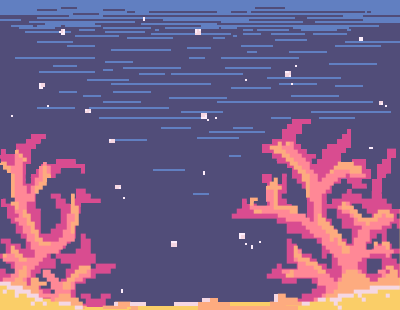
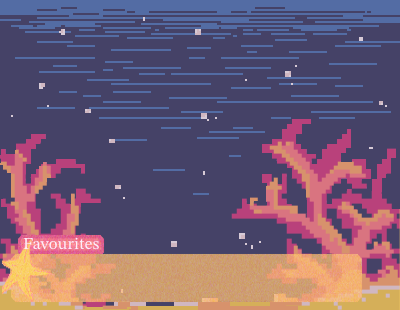
final graphics and more facts

diff --git a/index.html b/index.html
@@ -26,10 +26,10 @@
             </div>
         </div>
         <div id="buttonsection">
-            <button id="factbutton" onclick="changefact()">click me!</button>
+            <button id="factbutton" onclick="changefact()"></button>
         </div>
         <div id="favouritesection">
-          <p id="favouritetitle">Favourites</p>
+          <p id="favouritetitle"></p>
           <p id="favouritelist"></p>
         </div>
     </div>
@@ -48,15 +48,24 @@
     fact1 = new Fact("Jellyfish have been around for over 500 million years.", "Jellyfish Age");
     fact2 = new Fact("Jellyfish are 95% water!", "Jellyfish Water");
     fact3 = new Fact("Jellyfish bodies are made up of only 3 layers - the outer epidermis, the mesoglea (gelatinous layer in the middle), and the inner gastrodermis (lines the gut cavity). This means they have no brains, hearts, or lungs!", "Jellyfish Bodies");
-    fact4 = new Fact("Instead of bones, jellyfish have bells with fluid and muscles.", "Jellyfish bones")
+    fact4 = new Fact("Instead of bones, jellyfish have bells with fluid and muscles.", "Jellyfish Bones")
     fact5 = new Fact("When jellyfish want to move, they squirt water in the opposite direction they want to go in to propel themselves. Of course, it's much easier to drift with the ocean's currents.", "Jellyfish Movements");
     fact6 = new Fact("The largest species of jellyfish is called the lion's mane, which can have tentacles as long as 36 meters!", "Lion's Mane");
     fact7 = new Fact("The immortal jellyfish (Turritopsis Dohrnii) can drop to the seabed if it's injured or in water that's the wrong temperature and become a baby jellyfish again!", "Immortal Jellyfish");
     fact8 = new Fact("Jellyfish begin as a polyp, then grow into an ephyra, and finally into an adult medusa.", "Jellyfish Life Stages");
     fact9 = new Fact("Box jellyfish are different to other jellyfish types in that they have eyes that can see (instead of just sensing light). In fact, with their 24 eyes, they have 360 degree vision!", "Box Jellyfish");
     fact10 = new Fact("Jellyfish are part of the phylum Cnidaria alongside species such as corals and sea anemones.", "Jellyfish Phylum");
+    fact11 = new Fact("The Moon Jelly does not have long stinging tentacles unlike many other types of jellyfish.", "Moon Jellyfish");
+    fact12 = new Fact("The Australian box jellyfish's venom is so dangerous it can cause cardiac arrest and even death in humans.", "Australian Box Jellyfish");
+    fact13 = new Fact("Most jellyfish only live for around a year, but some only live for a couple of days.", "Jellyfish Life Span");
+    fact14 = new Fact("When jellyfish get ill, their bell can invert. This is often fatal for the jellyfish :(", "Jellyfish Illness");
+    fact15 = new Fact("GFP, or green fluorescent protein, commonly used in biology, was first found in jellyfish.", "GFP");
+    fact16 = new Fact("A group of jellyfish is called a smack!", "Group of Jellyfish");
+    fact17 = new Fact("Box Jellyfish have 24 eyes! Found on each 'side' of the box, they are well-developed and some are lensed like ours.", "Box Jellyfish Eyes");
+    fact18 = new Fact("Jellyfish were the ones that invented mucus!", "Mucus");
 
-    const jellyfishfacts = [fact1, fact2, fact3, fact4, fact5, fact6, fact7, fact8, fact9, fact10];
+
+    const jellyfishfacts = [fact1, fact2, fact3, fact4, fact5, fact6, fact7, fact8, fact9, fact10, fact11, fact12, fact13, fact14, fact15, fact16, fact17, fact18];
     let factchoice = Math.floor(Math.random() * jellyfishfacts.length);
     let currentfact = jellyfishfacts[factchoice];
     document.getElementById("fact").innerHTML = currentfact.content;
@@ -104,10 +113,3 @@
 
 </script>
 </html>
-
-<!-- make the button generate randomly /
-    add heart emoji /
-    create list of favouritedfacts, add when heart emoji clicked, delete when heart emoji unclicked /
-    favourites button bottom right corner, click to reveal list of favourited facts
-    graphics
--->

diff --git a/style.css b/style.css
@@ -4,6 +4,7 @@
     display: flex;
     flex-wrap: wrap;
     height: 300px;
+    color: #2D2959;
     background:
     linear-gradient(
           rgba(0, 0, 0, 0.1), 
@@ -53,27 +54,41 @@
 }
 #factbutton {
     width: 100px;
-    height: 45px;
+    height: 50px;
+    border: none;
+    background: none;
+    background-image: url(images/jellyfishbuttonclosed.png);
+    background-repeat: no-repeat;
 }
+#factbutton:hover {background-image: url(images/jellyfishbuttonopen.png); transform: scale(1.1);}
 
 #favouritesection {
     width: 100%;
     overflow: auto;
     text-align: center;
     font-size: small;
-    height: 50px;
+    height: 38px;
     padding: 5px 5px 5px 20px;
     margin: 0px;
-    background-image: url(images/jellyfishfactborder.png);
+    /*background-image: url(images/jellyfishfactborder.png);
     background-repeat: no-repeat;
-    background-position: bottom;
+    background-position: bottom;*/
 }
 
-::-webkit-scrollbar-button:start:increment {
-    height: 20%;
+::-webkit-scrollbar {
+    background-color: rgba(253, 171, 127, 0.85);
+    width: 15px;
 }
-::-webkit-scrollbar-button:end:increment {
-  height: 20%;
-  display: block;
-  background: transparent;
+::-webkit-scrollbar-thumb {
+    background-color: #FF8896;
+    border-radius: 5px;
+}
+::-webkit-scrollbar-button:vertical:decrement {
+    background-image: url(images/jellyfishup.png);
+    background-size: 15px;
+}
+
+::-webkit-scrollbar-button:vertical:increment {
+    background-image: url(images/jellyfishdown.png);
+    background-size: 15px;
 }
